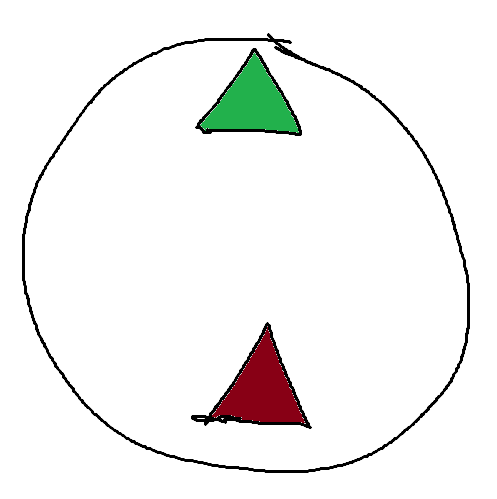
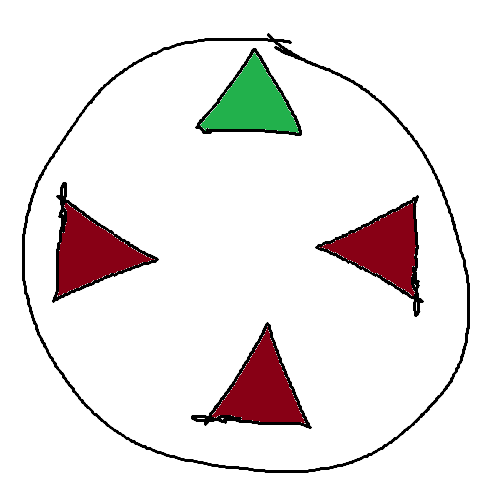
better connection checks

Changed region(s): [[0.0905, 0.3607, 0.332, 0.6012], [0.6338, 0.3908, 0.8451, 0.6313]]

diff --git a/DuplicatorNode.cpp b/DuplicatorNode.cpp
@@ -1,0 +1,33 @@
+#include "DuplicatorNode.h"
+#include "Grid.h"
+#include <iostream>
+
+void DuplicatorNode::onPlace(int row, int col, Grid *grid){
+    for (Node* inputNode : grid->getAdjacentNodesInDirection(row, col, getInputDirection())) {
+        if(inputNode->getInputDirection() == getOppositeDirection(getInputDirection())) {
+            addInputConnection(inputNode);
+            inputNode->addOutputConnection(this);
+        }
+    }
+    
+    for (int d = 0; d < 4; d++) {
+        Direction dir = static_cast<Direction>(d);
+
+        if (dir == getInputDirection()) continue; // skip output side
+
+        for (Node* inputNode : grid->getAdjacentNodesInDirection(row, col, dir)) {
+            if(inputNode->getOutputDirection() == getOppositeDirection(getInputDirection())){
+                addInputConnection(inputNode);
+                inputNode->addOutputConnection(this);
+            }
+        }
+    }
+}
+
+void DuplicatorNode::update(){
+    sendData(getDataBuffer().empty() ? IncomingData() : getDataBuffer()[0]);
+}
+
+Node* DuplicatorNode::clone(){                  
+    return new DuplicatorNode(*this);
+}

diff --git a/DuplicatorNode.h b/DuplicatorNode.h
@@ -1,0 +1,16 @@
+#include "Node.h"
+#include <string>
+
+class DuplicatorNode : public Node
+{
+public:
+    DuplicatorNode(int id, int capacity, int speed, Direction inputDir, Direction outputDir, int inputCount, int outputCount)
+        : Node(id, NodeType::DUPLICATOR, capacity, speed, inputDir, outputDir, inputCount, outputCount) {}
+
+    void update() override;
+
+    void onPlace(int row, int col, Grid *grid) override;
+
+    Node* clone() override;
+};
+

diff --git a/Node.cpp b/Node.cpp
@@ -109,7 +109,6 @@ IncomingData Node::processData() {
 void Node::sendData(IncomingData data) {
     for(Node* outputNode : outputConnections) {
         if(!outputNode->isFull()){
-            data.setDirection(outputDirection);
             outputNode->receiveData(data);
             clearDataBuffer();
         }
@@ -118,16 +117,18 @@ void Node::sendData(IncomingData data) {
 
 void Node::onPlace(int row, int col, Grid *grid) {
     for(Node* inputNode : grid->getAdjacentNodesInDirection(row, col, inputDirection)) {
-        addInputConnection(inputNode);
-        inputNode->addOutputConnection(this);
+        if(inputNode->getOutputDirection() == getOppositeDirection(inputDirection)) {
+            addInputConnection(inputNode);
+            inputNode->addOutputConnection(this);
+        }
     }
 
     for(Node* outputNode : grid->getAdjacentNodesInDirection(row, col, outputDirection)) {
-        addOutputConnection(outputNode);
-        outputNode->addInputConnection(this);
+        if(outputNode->getInputDirection() == getOppositeDirection(outputDirection)) {
+            addOutputConnection(outputNode);
+            outputNode->addInputConnection(this);
+        }
     }
-
- 
 }
 
 void Node::update() {

diff --git a/main.cpp b/main.cpp
@@ -6,6 +6,7 @@
 #include "SourceNode.h"
 #include "LogisticNode.h"
 #include "MergeNode.h"
+#include "DuplicatorNode.h"
 
 using namespace std;
 
@@ -43,11 +44,12 @@ int main () {
         }else if (IsKeyPressed(KEY_TWO)){
             newNode = new LogisticNode(2, 1, 1, Direction::DOWN, Direction::UP, 1, 1);
         }else if (IsKeyPressed(KEY_THREE)){
-            newNode = new MergeNode(3, 3, 1, Direction::DOWN, Direction::UP, 1, 1);
-        }else if (IsKeyPressed(KEY_FOUR)){                 
-            newNode->setType(NodeType::RECEIVER);
+            newNode = new MergeNode(3, 3, 1, Direction::DOWN, Direction::UP, 3, 1);
+        }else if (IsKeyPressed(KEY_FOUR)){                
+            newNode = new DuplicatorNode(4, 1, 1, Direction::DOWN, Direction::UP, 1, 3);
         }
         
+        //CHANGE THE SOURCE NODE OUTPUT BEFORE PLACING
         if(newNode->getType() == NodeType::SOURCE) {
             int key = GetCharPressed();
             char c = (char)key;
@@ -55,8 +57,9 @@ int main () {
                 ((SourceNode*)newNode)->setData(c);
             }
         }
-
-        if (IsKeyPressed(KEY_R))
+        
+        //ROTATE
+        if (IsKeyPressed(KEY_TAB))
         {
             rotation = (rotation + 1) % 4;
             switch (rotation)

diff --git a/MergeNode.cpp b/MergeNode.cpp
@@ -22,8 +22,10 @@ void MergeNode::update() {
 
 void MergeNode::onPlace(int row, int col, Grid *grid) {
     for (Node* outputNode : grid->getAdjacentNodesInDirection(row, col, getOutputDirection())) {
-        addOutputConnection(outputNode);
-        outputNode->addInputConnection(this);
+        if(outputNode->getInputDirection() == getOppositeDirection(getOutputDirection())) {
+            addOutputConnection(outputNode);
+            outputNode->addInputConnection(this);
+        }
     }
     
     for (int d = 0; d < 4; d++) {
@@ -32,8 +34,10 @@ void MergeNode::onPlace(int row, int col, Grid *grid) {
         if (dir == getOutputDirection()) continue; // skip output side
 
         for (Node* inputNode : grid->getAdjacentNodesInDirection(row, col, dir)) {
-            addInputConnection(inputNode);
-            inputNode->addOutputConnection(this);
+            if(inputNode->getOutputDirection() == getOppositeDirection(getInputDirection())){
+                addInputConnection(inputNode);
+                inputNode->addOutputConnection(this);
+            }
         }
     }
 }

diff --git a/NodeType.h b/NodeType.h
@@ -1,1 +1,11 @@
-enum NodeType { SOURCE, LOGISTICS, MERGE, RECEIVER };
+enum NodeType { 
+    SOURCE, 
+    LOGISTICS,
+    CORNERLOG_DOWNIN_RIGHTOUT,
+    CORNERLOG_DOWNIN_LEFTOUT,
+    CORNERLOG_UPIN_RIGHTOUT,
+    CORNERLOG_UPIN_LEFTOUT,
+    MERGE, 
+    RECEIVER,
+    DUPLICATOR
+};

diff --git a/Direction.h b/Direction.h
@@ -6,3 +6,13 @@ enum Direction {
     UP,
     LEFT
 };
+
+inline Direction getOppositeDirection(Direction dir) {
+    switch(dir) {
+        case Direction::UP:    return Direction::DOWN;
+        case Direction::DOWN:  return Direction::UP;
+        case Direction::LEFT:  return Direction::RIGHT;
+        case Direction::RIGHT: return Direction::LEFT;
+    }
+    return Direction::UP;
+}

diff --git a/SourceNode.cpp b/SourceNode.cpp
@@ -1,6 +1,6 @@
 #include "SourceNode.h"
 #include "Grid.h"
-#include "iostream"
+#include <iostream>
 #include <algorithm>
 #include <cctype>  
 
@@ -21,8 +21,10 @@ Node* SourceNode::clone(){
 void SourceNode::onPlace(int row, int col, Grid *grid){
 
     for(Node* outputNode : grid->getAdjacentNodesInDirection(row, col, getOutputDirection())) {
-        addOutputConnection(outputNode);
-        outputNode->addInputConnection(this);
+        if(outputNode->getInputDirection() == getOppositeDirection(getOutputDirection())) {
+            addOutputConnection(outputNode);
+            outputNode->addInputConnection(this);
+        }
     }
 }
 

diff --git a/Grid.cpp b/Grid.cpp
@@ -6,6 +6,7 @@ Texture2D receiverTexture;
 Texture2D logisticsTexture;
 Texture2D filterTexture;
 Texture2D tileTexture;
+Texture2D duplicatorTexture;
 
 void Grid::LoadGridAssets() {
     Image sourceNodeImage = LoadImage("assets/source.png");
@@ -13,18 +14,21 @@ void Grid::LoadGridAssets() {
     Image logisticsNodeImage = LoadImage("assets/logistics.png");
     Image filterNodeImage = LoadImage("assets/filter.png");
     Image tileImage = LoadImage("assets/tile.png");
+    Image duplicatorImage = LoadImage("assets/duplicator.png");
 
     ImageResize(&sourceNodeImage, 50, 50);
     ImageResize(&receiverNodeImage, 50, 50);
     ImageResize(&logisticsNodeImage, 50, 50);
     ImageResize(&filterNodeImage, 50, 50);
     ImageResize(&tileImage, 50, 50);
+    ImageResize(&duplicatorImage, 50, 50);
 
     sourceTexture = LoadTextureFromImage(sourceNodeImage);
     receiverTexture = LoadTextureFromImage(receiverNodeImage);
     logisticsTexture = LoadTextureFromImage(logisticsNodeImage);
     filterTexture = LoadTextureFromImage(filterNodeImage);
     tileTexture = LoadTextureFromImage(tileImage);
+    duplicatorTexture = LoadTextureFromImage(duplicatorImage);
 }
 
 Texture2D* getTexture(NodeType type)
@@ -35,6 +39,7 @@ Texture2D* getTexture(NodeType type)
         case NodeType::RECEIVER: return &receiverTexture;
         case NodeType::LOGISTICS: return &logisticsTexture;
         case NodeType::MERGE: return &filterTexture;
+        case NodeType::DUPLICATOR: return &duplicatorTexture;
         default: return nullptr;
     }
 }